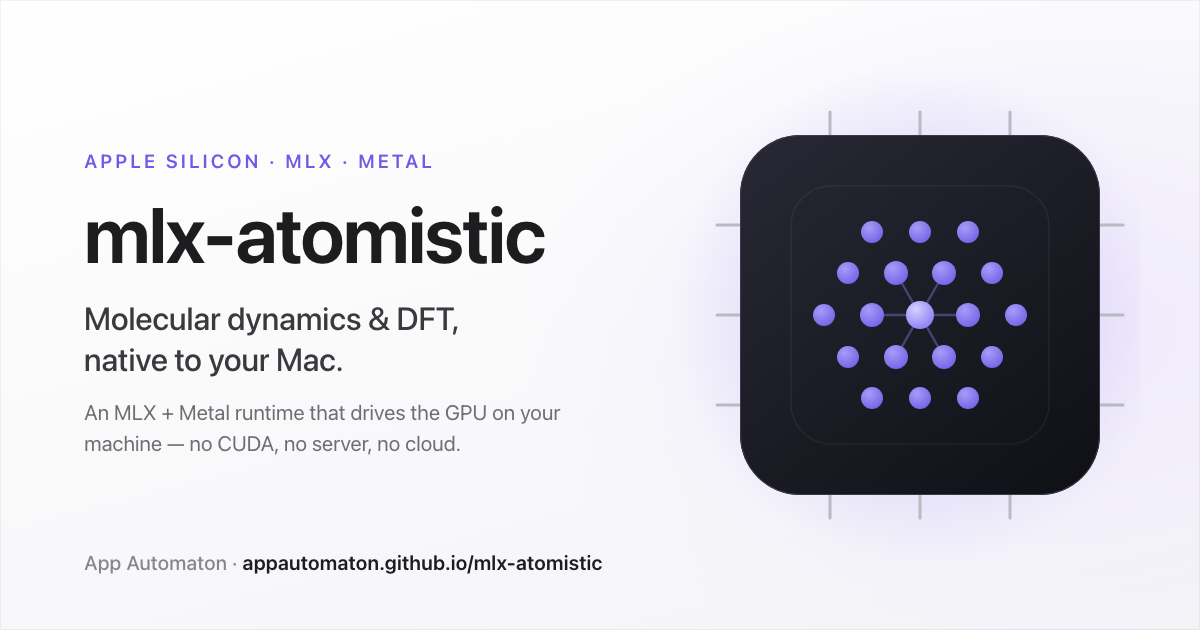
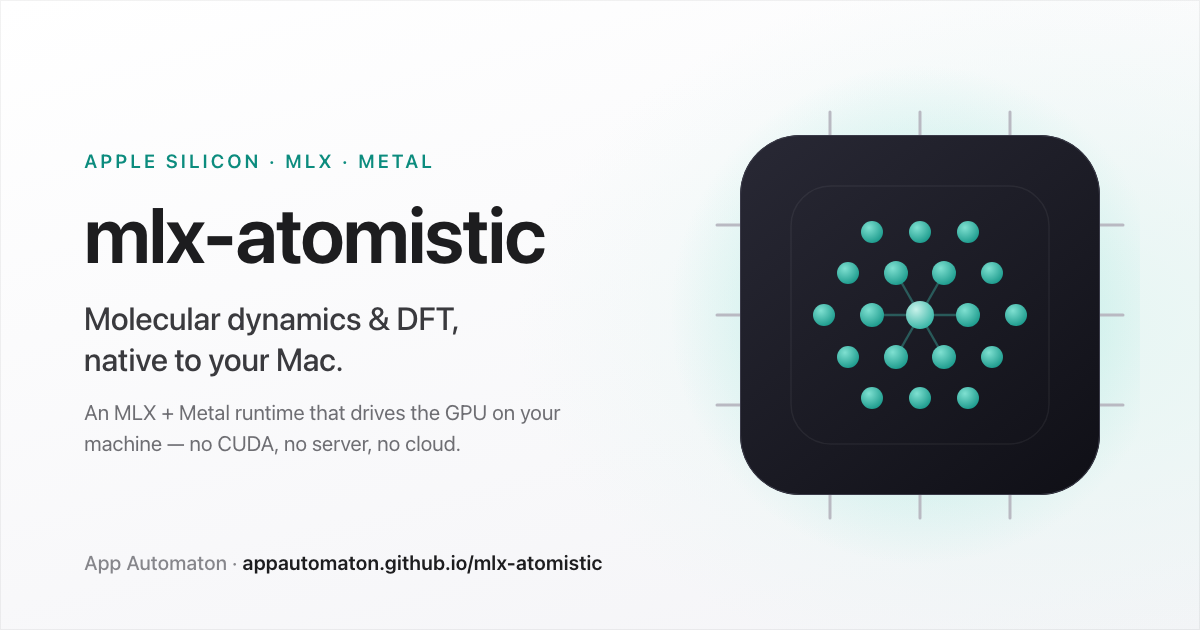
feat(site): dynamic condense-on-scroll nav, bolder brand, teal OG card
Address the nav reading thin/small and finish the teal migration across the
social card + README badges.

Nav (index.astro):
- Condense-on-scroll: an IntersectionObserver sentinel toggles .is-scrolled, so
  the floating pill tightens padding, turns its glass more opaque and deepens
  its shadow once the page scrolls past the top (no per-frame scroll handler).
  The logo also eases from 30px -> 26px. New --glass-strong / --nav-shadow-scrolled
  tokens carry the scrolled look per theme.
- Presence: logo 25 -> 30px (it was smaller than the icon buttons beside it),
  wordmark 0.95rem/600 -> 1.0625rem/700, nav links 0.875rem/400 -> 0.9375rem/500,
  bond opacity 0.34 -> 0.4. The links' low weight was the main source of "thin".

Brand teal completion:
- site/og/card.html: recolor the eyebrow, atom gradients, aura and bonds to teal;
  regenerate site/public/og.png (the banner shown at the top of the README).
- README.md: the two remaining #6c5ce7 shields badges -> #0c8c7e.

Motion respects prefers-reduced-motion; build verified (84 pages); top and
condensed states checked in light + dark.

diff --git a/site/og/card.html b/site/og/card.html
@@ -16,7 +16,7 @@
       .card {
         width: 1200px; height: 630px; position: relative; overflow: hidden;
         background:
-          radial-gradient(900px 600px at 88% 52%, #efeafc 0%, rgba(239,234,252,0) 60%),
+          radial-gradient(900px 600px at 88% 52%, #e6f6f3 0%, rgba(230,246,243,0) 60%),
           linear-gradient(165deg, #ffffff 0%, #f4f4f7 100%);
         font-family: -apple-system, BlinkMacSystemFont, "SF Pro Display",
           "Segoe UI", Roboto, Helvetica, Arial, sans-serif;
@@ -30,7 +30,7 @@
       .copy { position: absolute; left: 84px; top: 150px; width: 560px; }
       .eyebrow {
         font-size: 19px; font-weight: 590; letter-spacing: 0.16em;
-        text-transform: uppercase; color: #6c5ce7;
+        text-transform: uppercase; color: #0c8c7e;
       }
       .wordmark {
         margin-top: 22px; font-size: 78px; font-weight: 640; letter-spacing: -0.02em;
@@ -69,17 +69,17 @@
             <stop offset="1" stop-color="#101017" />
           </linearGradient>
           <radialGradient id="atom" cx="0.36" cy="0.3" r="0.85">
-            <stop stop-color="#a99bf6" />
-            <stop offset="1" stop-color="#6c5ce7" />
+            <stop stop-color="#7fe0d1" />
+            <stop offset="1" stop-color="#0d9082" />
           </radialGradient>
           <radialGradient id="atomC" cx="0.36" cy="0.3" r="0.9">
-            <stop stop-color="#d7cfff" />
-            <stop offset="1" stop-color="#7c6ef2" />
+            <stop stop-color="#c8f2ea" />
+            <stop offset="1" stop-color="#16a897" />
           </radialGradient>
           <radialGradient id="aura" cx="0.5" cy="0.5" r="0.5">
-            <stop stop-color="#8b7ff0" stop-opacity="0.55" />
-            <stop offset="0.55" stop-color="#9d8cf2" stop-opacity="0.20" />
-            <stop offset="1" stop-color="#9d8cf2" stop-opacity="0" />
+            <stop stop-color="#57d6c6" stop-opacity="0.55" />
+            <stop offset="0.55" stop-color="#57d6c6" stop-opacity="0.20" />
+            <stop offset="1" stop-color="#57d6c6" stop-opacity="0" />
           </radialGradient>
         </defs>
 
@@ -100,7 +100,7 @@
         <rect x="171" y="186" width="258" height="258" rx="40" stroke="#ffffff" stroke-opacity="0.06" stroke-width="1.5" />
 
         <!-- bonds: center to inner ring -->
-        <g stroke="#8b7ff0" stroke-width="2.4" stroke-opacity="0.4">
+        <g stroke="#3fb8ab" stroke-width="2.4" stroke-opacity="0.4">
           <line x1="300" y1="315" x2="348" y2="315" /><line x1="300" y1="315" x2="324" y2="357" /><line x1="300" y1="315" x2="276" y2="357" />
           <line x1="300" y1="315" x2="252" y2="315" /><line x1="300" y1="315" x2="276" y2="273" /><line x1="300" y1="315" x2="324" y2="273" />
         </g>

diff --git a/README.md b/README.md
@@ -13,12 +13,12 @@
 </p>
 
 <p align="center">
-  <a href="https://appautomaton.github.io/mlx-atomistic/"><img alt="Documentation" src="https://img.shields.io/badge/docs-appautomaton.github.io-6c5ce7?style=flat-square&logo=readthedocs&logoColor=white"></a>
+  <a href="https://appautomaton.github.io/mlx-atomistic/"><img alt="Documentation" src="https://img.shields.io/badge/docs-appautomaton.github.io-0c8c7e?style=flat-square&logo=readthedocs&logoColor=white"></a>
   <a href="https://pypi.org/project/mlx-atomistic/"><img alt="PyPI" src="https://img.shields.io/pypi/v/mlx-atomistic?style=flat-square&logo=pypi&logoColor=white"></a>
   <a href="https://github.com/appautomaton/mlx-atomistic/actions/workflows/ci.yml"><img alt="CI" src="https://github.com/appautomaton/mlx-atomistic/actions/workflows/ci.yml/badge.svg"></a>
   <img alt="Python 3.13" src="https://img.shields.io/badge/python-3.13-3776AB?style=flat-square&logo=python&logoColor=white">
   <img alt="License: MIT" src="https://img.shields.io/badge/license-MIT-1d1d1f?style=flat-square">
-  <a href="https://appautomaton.github.io"><img alt="Part of App Automaton" src="https://img.shields.io/badge/part%20of-App%20Automaton-6c5ce7?style=flat-square"></a>
+  <a href="https://appautomaton.github.io"><img alt="Part of App Automaton" src="https://img.shields.io/badge/part%20of-App%20Automaton-0c8c7e?style=flat-square"></a>
 </p>
 
 <p align="center">